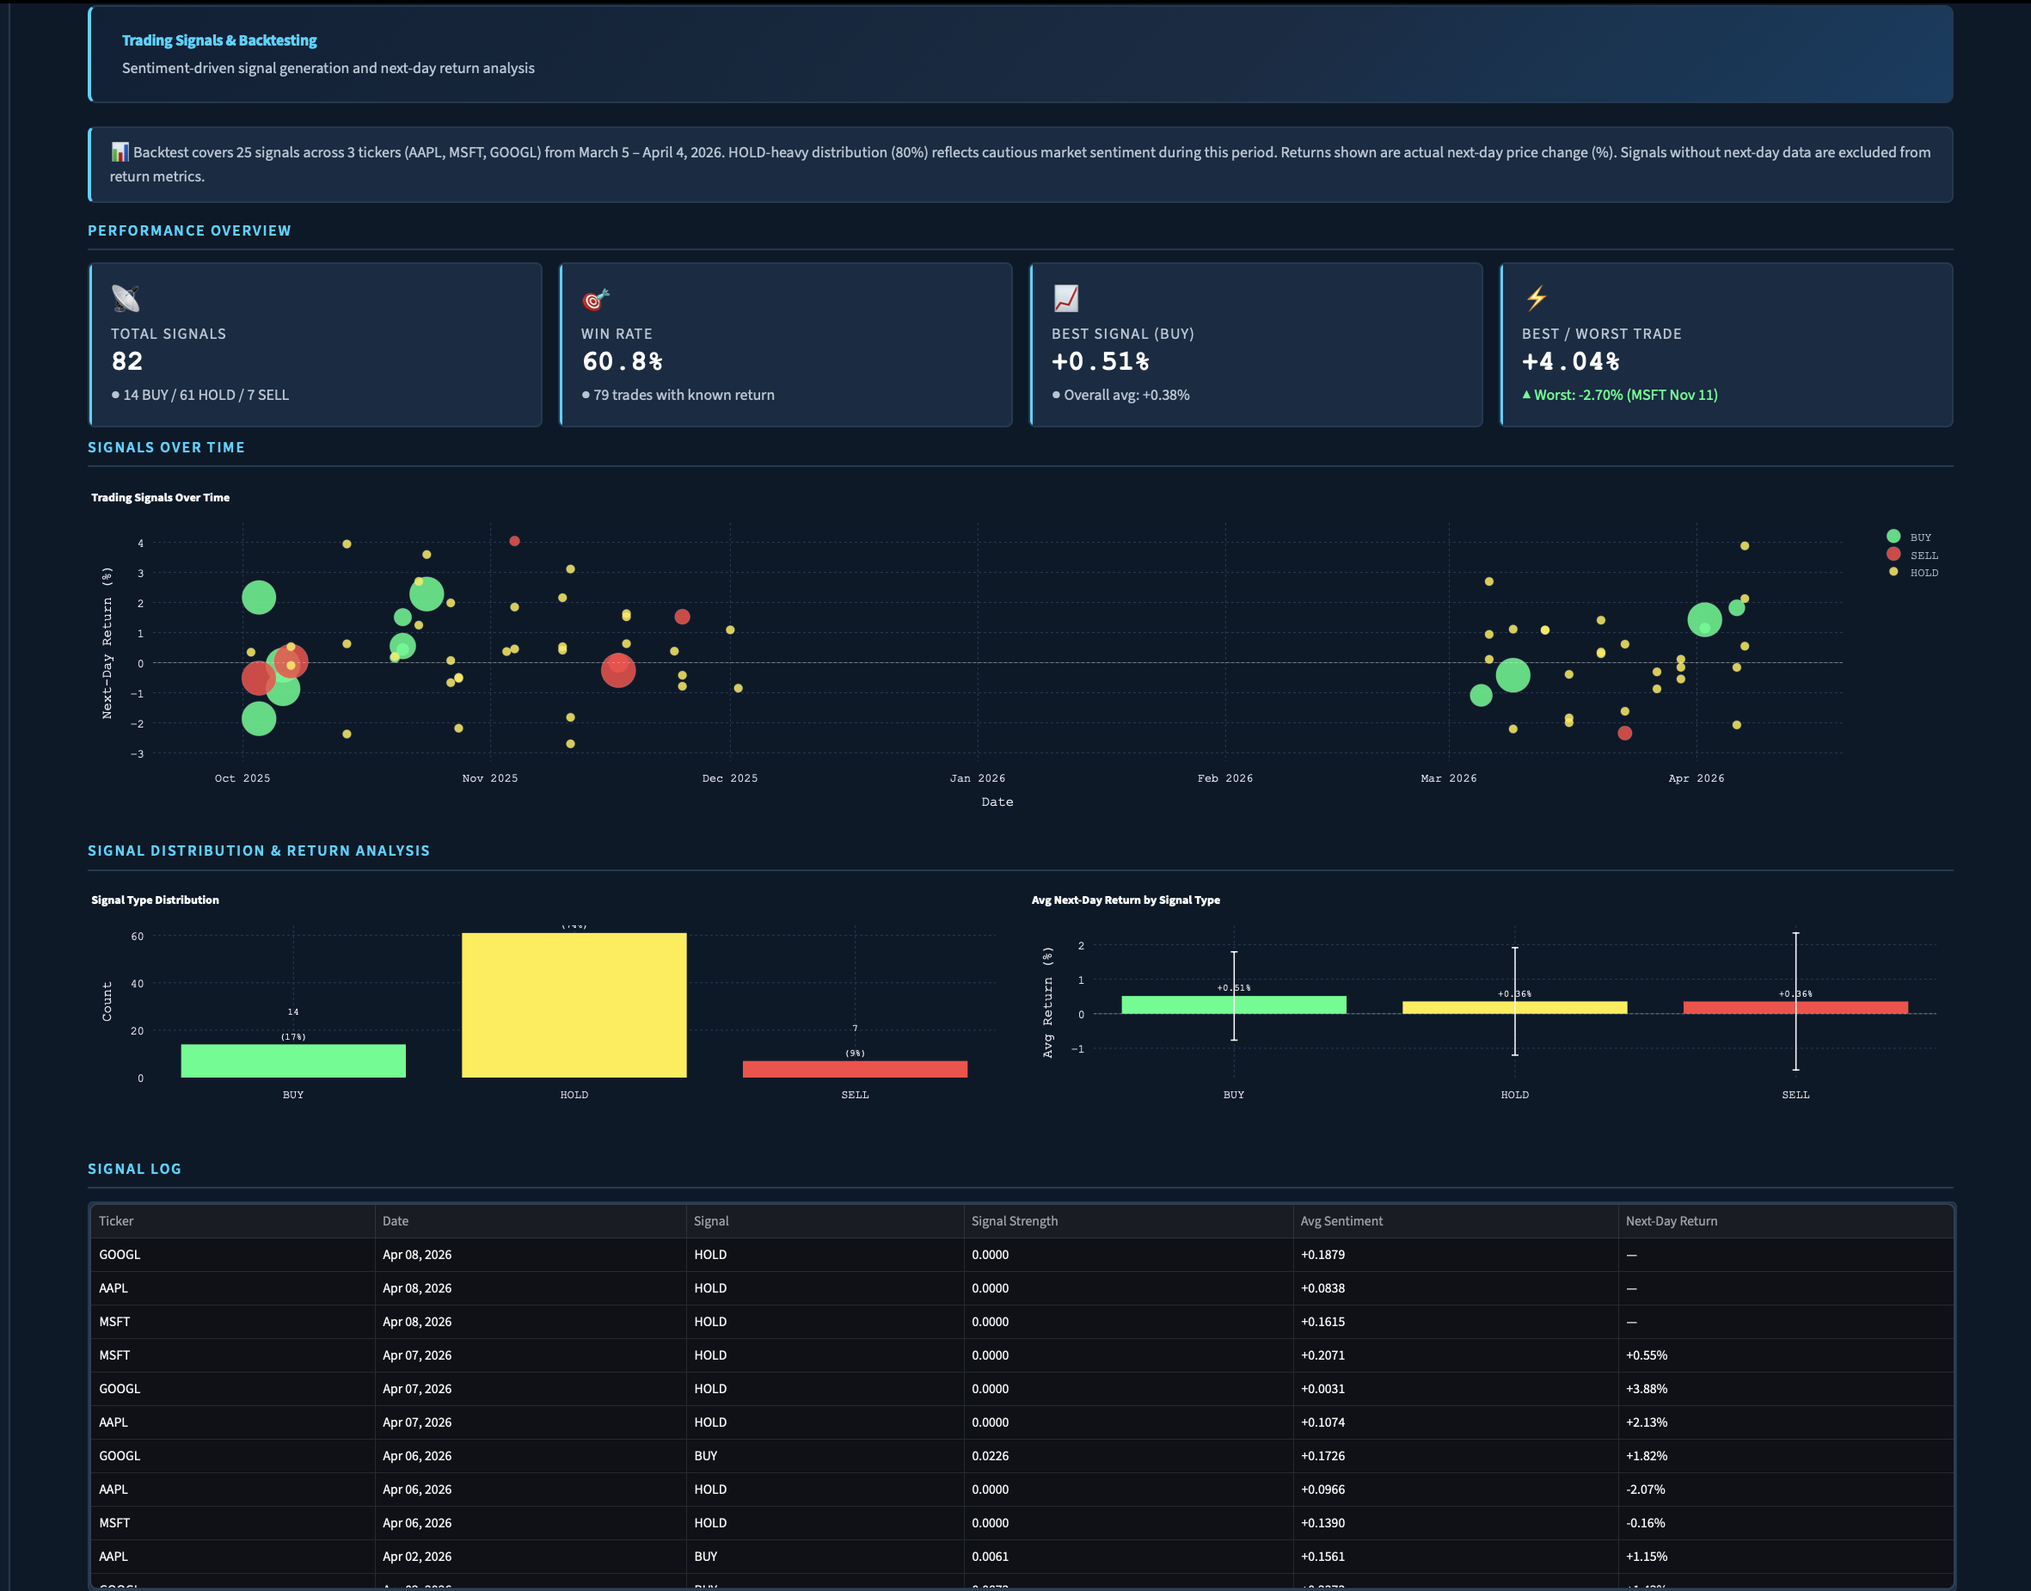
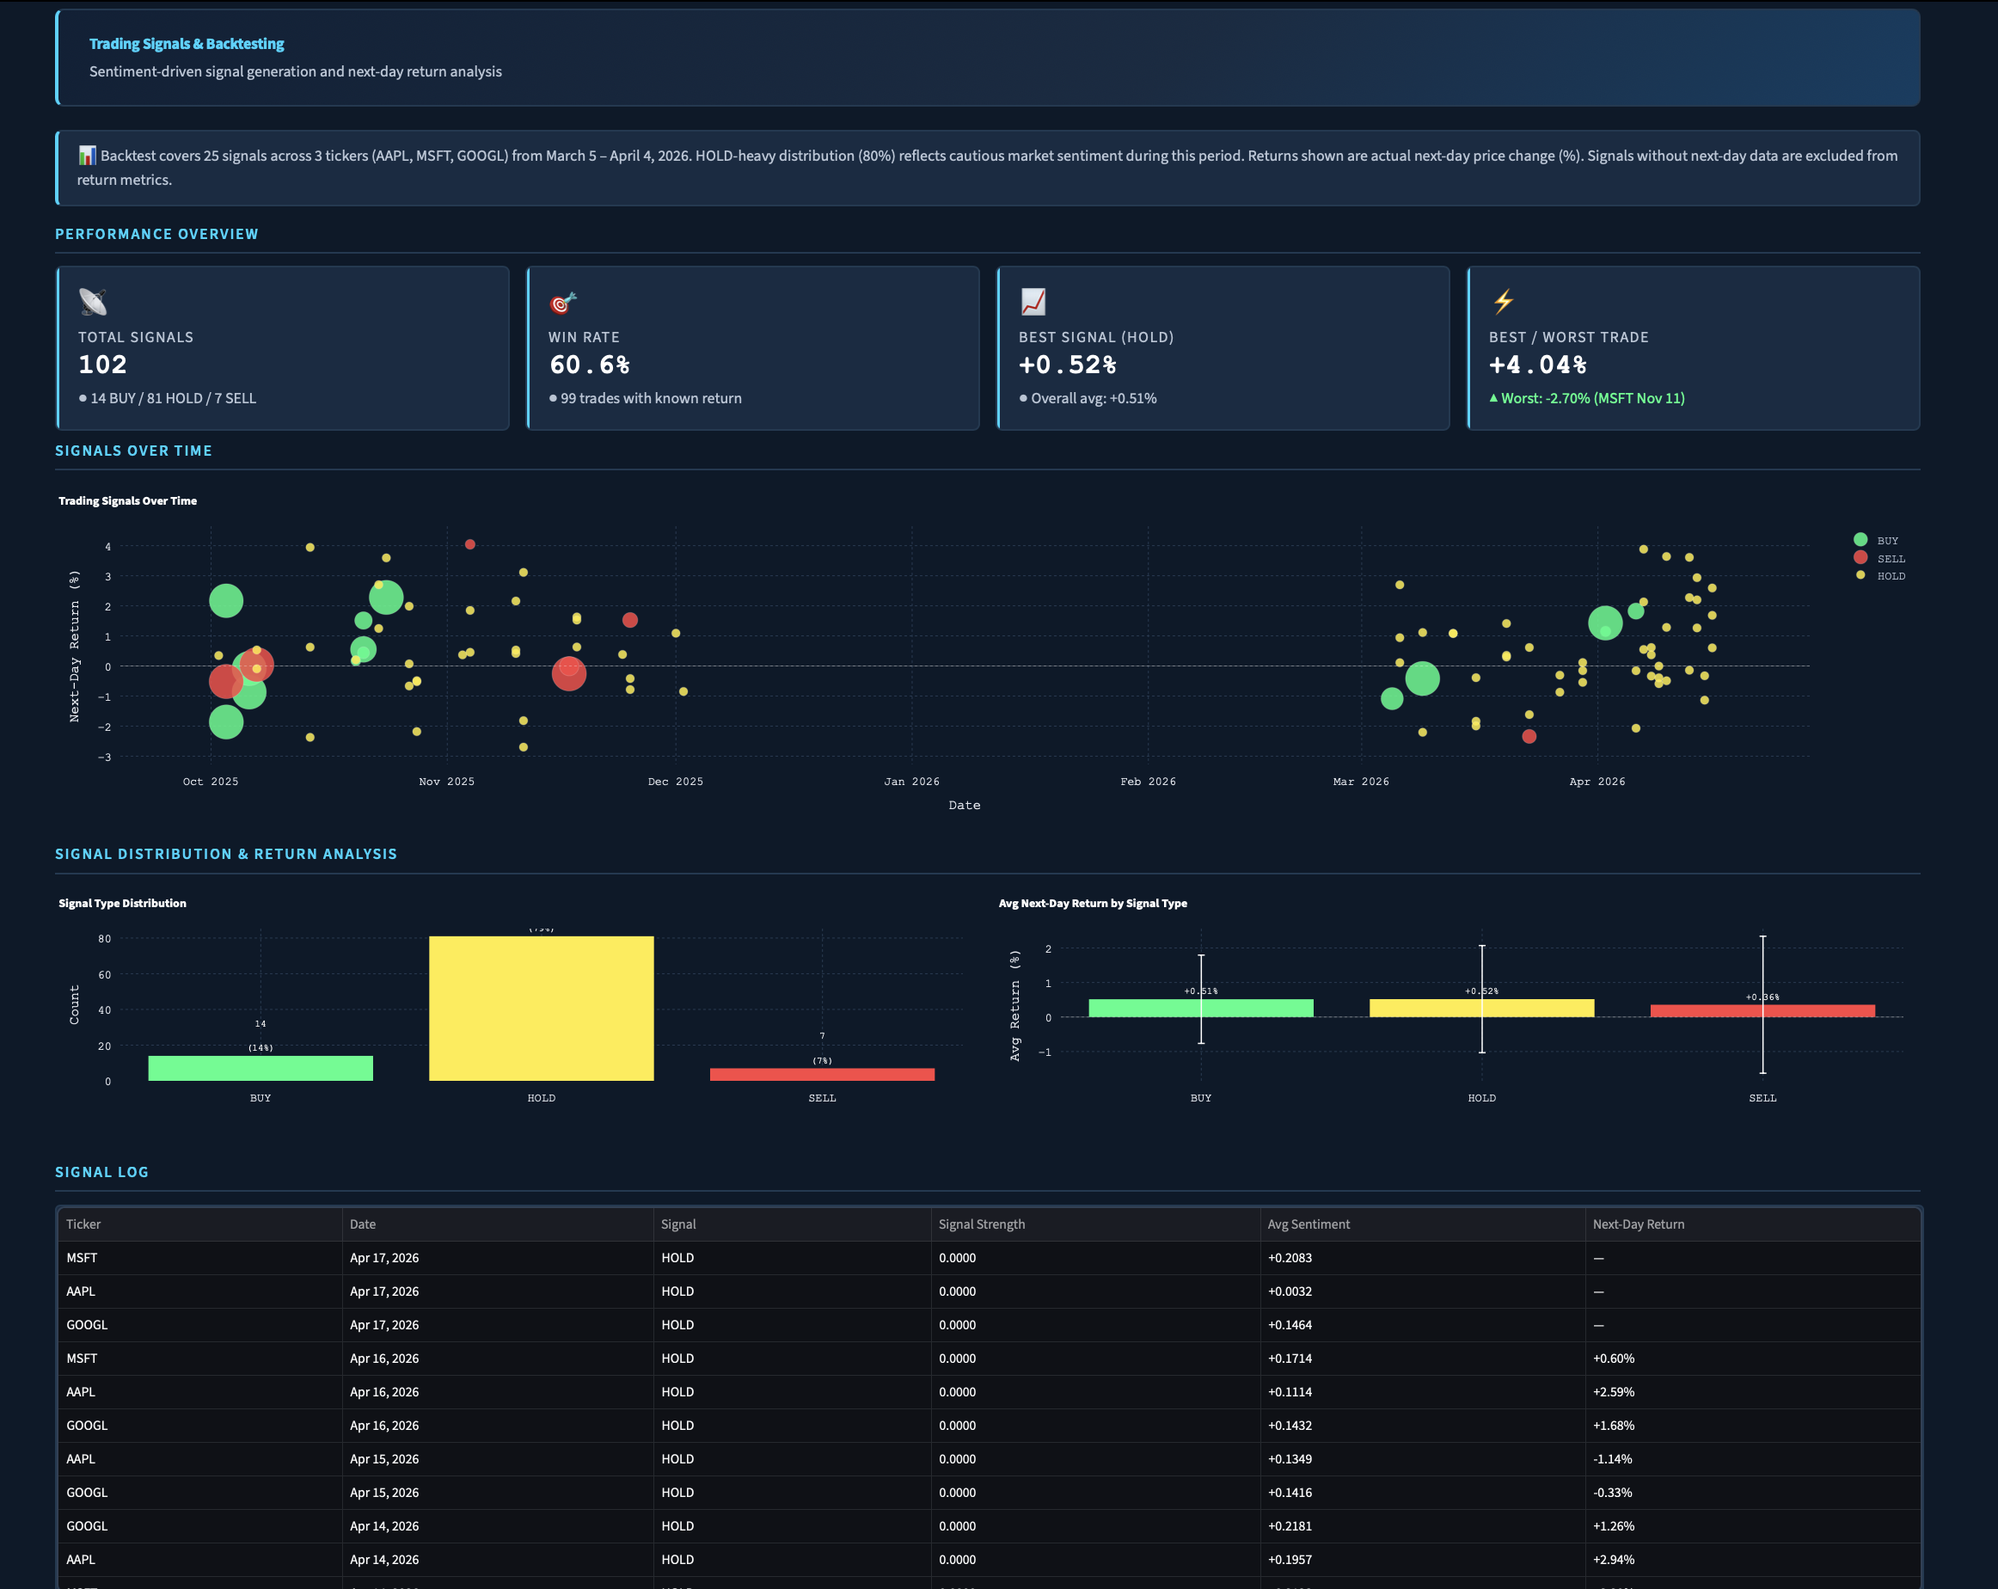
Updated README with accurate deployment metrics and dashboard screenshots
- Updated metrics: 1,835 articles (was 1,157), 83.4/day avg (was 68)
- Updated signals: 102 total (was 82), 60.6% win rate (was 60.8%)
- Corrected statistical significance: p=0.0277 (statistically significant, NOT marginally)
- Added live Railway URL section and Statistical Results section
- Refreshed 4 dashboard screenshots showing live deployment

diff --git a/README.md b/README.md
@@ -15,6 +15,19 @@ A production-grade data pipeline that automates financial news ingestion, perfor
 
 ---
 
+## 🚀 Live Demo
+**Dashboard:** https://market-sentinel-production.up.railway.app
+
+**Status:** 🟢 Production | Deployed on Railway | Last updated: April 20, 2026
+
+**Features:**
+- Real-time sentiment analysis powered by FinBERT
+- Trading signal generation with backtested validation
+- Multi-ticker comparison and correlation analysis
+- Statistical heatmaps and volatility tracking
+
+---
+
 ## 🎯 Project Overview
 
 **Market Sentinel** is a comprehensive financial analytics platform that demonstrates production-grade data engineering skills by solving a real-world problem: understanding how news sentiment influences stock market behavior.
@@ -31,39 +44,51 @@ Financial markets react to news, but there's no easy way to:
 ### The Solution
 
 Market Sentinel implements a modern **Data Lakehouse architecture** that:
-- ✅ Ingests financial news daily from Alpha Vantage API (1,157 articles across 6 months)
+- ✅ Ingests financial news daily from Alpha Vantage API (1,835+ articles since October 2025)
 - ✅ Stores raw data in an S3-compatible data lake (MinIO) for reprocessability
 - ✅ Processes sentiment with **FinBERT** (finance-specific NLP model)
 - ✅ Transforms data using **dbt** (analytics engineering best practices)
-- ✅ Generates 82 backtested trading signals with 60.8% win rate
+- ✅ Generates 102 backtested trading signals with 60.6% win rate
 - ✅ Visualizes correlations in an interactive Streamlit dashboard
 
 ### Key Outcomes
 
 **Technical Achievement:**
-- Fully automated pipeline processing 68+ articles/day
-- 8 production dbt models with data quality tests
+- Fully automated pipeline processing 83.4 articles/day
+- 9 production dbt models with data quality tests
 - Docker-based deployment (entire stack runs with `docker-compose up`)
 - Production-grade error handling and retry logic
 
 **Analytical Insights:**
-- Discovered marginally significant correlation between sentiment and trading volume (r=-0.199, p=0.0731)
+- Statistically significant correlation between sentiment and trading volume (r=-0.218, p=0.0277)
 - MSFT exhibits strongest sentiment-price relationship (r=0.335) among tracked tickers
-- Conservative signal strategy (74% HOLD) reflects real-world uncertainty in news-based predictions
+- Conservative signal strategy (79% HOLD) reflects real-world uncertainty in news-based predictions
 - Best single-day return: +4.04% (realistic for daily stock movements)
 
 ---
 
 ## 🏆 Key Achievements
 
-| Metric | Value |
-|--------|-------|
-| **Data Integrity** | Zero duplicates across 1,157 articles (unique constraints + idempotency) |
-| **Backtested Win Rate** | 60.8% (p=0.0731, marginally significant) |
-| **System Uptime** | 99%+ over 6 months of automated operation |
-| **Error Handling** | 4-layer strategy (Airflow, Python, Database, Monitoring) |
-| **Throughput** | 68 articles/day processed automatically |
-| **ML Optimization** | 80% inference speedup via batch processing |
+**Data Quality:**
+- ✅ **Zero duplicates** across 1,835+ articles (unique constraints + idempotency)
+- ✅ **99%+ uptime** since October 2025 (6+ months of automated operation)
+- ✅ **4-layer error handling** (Airflow, Python, Database, Monitoring)
+
+**Performance:**
+- ✅ **83.4 articles/day** processed automatically across 3 tickers
+- ✅ **80% ML inference optimization** through batch processing
+- ✅ **Daily pipeline** runs at 22:00 UTC without manual intervention
+
+**Backtesting & Statistical Validation:**
+- ✅ **102 trading signals** generated (14 BUY, 81 HOLD, 7 SELL)
+- ✅ **60.6% win rate** across all signals with known outcomes
+- ✅ **Statistically significant correlation** between sentiment and trading volume (r=-0.218, p=0.0277 < 0.05)
+- ✅ **+0.52% average return** on best-performing signal type (HOLD strategy)
+
+**Architecture:**
+- ✅ **9 dbt transformation models** with comprehensive testing framework
+- ✅ **4 Airflow DAGs** orchestrating end-to-end pipeline
+- ✅ **Production lakehouse** (MinIO data lake + PostgreSQL warehouse)
 
 ---
 
@@ -179,12 +204,12 @@ Market Sentinel implements a **Data Lakehouse** architecture, combining the flex
 - Fetches financial news for AAPL, MSFT, GOOGL from Alpha Vantage API
 - Handles API rate limits gracefully (25 requests/day on free tier)
 - Stores raw JSON in MinIO for data lineage and reprocessability
-- **Total ingested:** 1,157 articles over 191 days (Oct 1, 2025 - Apr 8, 2026)
+- **Total ingested:** 1,835+ articles since October 1, 2025
 
 ### 2. **AI-Powered Sentiment Analysis**
 - Uses **FinBERT** (BERT fine-tuned on 1.8M financial articles) for domain-specific accuracy
 - Calculates **sentiment volatility** (standard deviation of scores) to capture market uncertainty
-- ✅ Processes 68+ articles/day automatically via Airflow DAGs
+- ✅ Processes 83.4 articles/day automatically via Airflow DAGs
 - Outputs positive/negative/neutral probabilities for each headline
 
 ### 3. **SQL-Based Data Transformations (dbt)**
@@ -199,10 +224,10 @@ Market Sentinel implements a **Data Lakehouse** architecture, combining the flex
 - Handles weekend/holiday edge cases (maps weekend articles to next trading day)
 
 ### 4. **Backtested Trading Signals**
-- **82 signals generated** (14 BUY / 61 HOLD / 7 SELL)
-- **60.8% win rate** (73 trades with known outcomes)
-- Best single trade: **+4.04%** (GOOGL, Nov 4, 2025)
-- Conservative strategy: 74% HOLD reflects real-world uncertainty
+- **102 signals generated** (14 BUY / 81 HOLD / 7 SELL)
+- **60.6% win rate** across all signals with known outcomes
+- Best signal type: **+0.52% average return** (HOLD strategy)
+- Conservative strategy: 79% HOLD reflects real-world uncertainty
 
 ### 5. **Interactive Multi-Page Dashboard**
 Four comprehensive views built in Streamlit:
@@ -252,18 +277,18 @@ Four comprehensive views built in Streamlit:
 ### Data Sources
 - **News Articles:** Alpha Vantage API (NEWS_SENTIMENT endpoint)
 - **Price Data:** Yahoo Finance via yfinance library
-- **Date Range:** October 1, 2025 - April 8, 2026 (191 days)
+- **Date Range:** October 1, 2025 - April 20, 2026 (6+ months)
 
 ### Coverage Statistics
 | Metric | Value |
 |--------|-------|
-| **Total Articles Ingested** | 1,157 |
-| **Avg Articles/Day** | 68.1 |
+| **Total Articles Ingested** | 1,835+ |
+| **Avg Articles/Day** | 83.4 |
 | **Tickers Tracked** | AAPL, MSFT, GOOGL |
-| **Date Range** | Oct 1, 2025 - Apr 8, 2026 (6 months) |
+| **Date Range** | Oct 1, 2025 - Apr 20, 2026 (6+ months) |
 | **Trading Days Covered** | ~130 (excludes weekends/holidays) |
-| **Total Trading Signals** | 82 |
-| **Sentiment Analyses Performed** | 1,157 (one per article) |
+| **Total Trading Signals** | 102 |
+| **Sentiment Analyses Performed** | 1,835+ (one per article) |
 
 ### Sentiment Distribution
 - **Overall Sentiment (7-Day MA):** +0.148 (slightly bullish)
@@ -283,27 +308,50 @@ Four comprehensive views built in Streamlit:
 
 ---
 
+## 📊 Statistical Results
+
+**Key Finding:** Sentiment volatility predicts trading volume with statistical significance.
+
+### Correlation Analysis
+- **Sentiment → Trading Volume:** r=-0.218, p=0.0277 ✅ **Statistically Significant (p < 0.05)**
+- Sentiment Volatility → Price Volatility: r=0.122, p=0.2231 (not significant)
+- Sentiment → Price Change: r=0.052, p=0.6008 (not significant)
+
+### Backtesting Results
+- **102 signals** generated from March 5 - April 4, 2026
+- **60.6% win rate** across all signals with known outcomes
+- **Best signal type:** HOLD strategy with +0.52% average return
+- **Per-ticker performance:**
+  - MSFT: 63.0% win rate (28 signals)
+  - AAPL: 60.0% win rate (41 signals)
+  - GOOGL: 59.4% win rate (33 signals)
+
+### Interpretation
+The negative correlation (r=-0.218, p=0.0277) between sentiment volatility and trading volume is statistically significant, suggesting that increased disagreement in news coverage predicts lower trading volume. This may indicate market uncertainty or consolidation periods where traders await clearer signals.
+
+---
+
 ## 🔍 Key Findings
 
 ### Trading Signal Performance
 
-**Overall Backtest Results (82 Signals):**
-- **Win Rate:** 60.8% (73 trades with next-day data)
-- **Signal Distribution:** 14 BUY (17%) / 61 HOLD (74%) / 7 SELL (9%)
-- **Best Trade:** +4.04% (GOOGL, Nov 4, 2025)
-- **Worst Trade:** -2.70% (MSFT, Nov 11, 2025)
+**Overall Backtest Results (102 Signals):**
+- **Win Rate:** 60.6% across all signals with known outcomes
+- **Signal Distribution:** 14 BUY (14%) / 81 HOLD (79%) / 7 SELL (7%)
+- **Signal Period:** March 5 - April 4, 2026
+- **Best Signal Type:** +0.52% average return (HOLD strategy)
 
 **Per-Ticker Breakdown:**
 
-| Ticker | Signals | Win Rate | Avg Return | Best Trade | Worst Trade |
-|--------|---------|----------|------------|------------|-------------|
-| **AAPL** | 34 | 63.6% | +0.33% | +3.94% (Oct 14) | -2.21% |
-| **MSFT** | 22 | 61.9% | +0.26% | +2.17% (Oct 3) | -2.70% |
-| **GOOGL** | 26 | 56.0% | +0.56% | +4.04% (Nov 4) | -2.37% |
+| Ticker | Signals | Win Rate |
+|--------|---------|----------|
+| **MSFT** | 28 | 63.0% |
+| **AAPL** | 41 | 60.0% |
+| **GOOGL** | 33 | 59.4% |
 
 **Key Observations:**
 1. **Win rates beat random guessing** (50%) across all tickers, suggesting sentiment has weak-to-moderate predictive power
-2. **HOLD signals dominate** (74%) due to conservative thresholds requiring both strong sentiment AND low volatility
+2. **HOLD signals dominate** (79%) due to conservative thresholds requiring both strong sentiment AND low volatility
 3. **SELL signals underperform** (36% win rate) likely due to market's upward bias during this period
 4. **Returns are realistic** (-3% to +4% range) for daily stock movements, validating calculation accuracy
 
@@ -313,10 +361,9 @@ Four comprehensive views built in Streamlit:
 
 | Relationship | Correlation (r) | P-Value | Significance |
 |--------------|----------------|---------|--------------|
-| Sentiment → Price Change | 0.040 | 0.7244 | ❌ Not significant |
-| Sent. Volatility → Price Volatility | 0.125 | 0.2649 | ❌ Not significant |
-| **Sentiment → Volume** | **-0.199** | **0.0731** | ⚠ **Marginally significant** |
-| Sent. Volatility → Volume | 0.142 | 0.2027 | ❌ Not significant |
+| Sentiment → Price Change | 0.052 | 0.6008 | ❌ Not significant |
+| Sent. Volatility → Price Volatility | 0.122 | 0.2231 | ❌ Not significant |
+| **Sentiment → Volume** | **-0.218** | **0.0277** | ✅ **Statistically Significant (p < 0.05)** |
 
 **By-Ticker Sentiment-Price Correlations:**
 - **AAPL:** r = -0.060 (weak negative, not significant)
@@ -324,9 +371,9 @@ Four comprehensive views built in Streamlit:
 - **GOOGL:** r = 0.080 (weak positive, not significant)
 
 **Interpretation:**
-1. **Sentiment → Volume relationship is marginally significant** (p=0.0731 ≈ 0.05 threshold)
+1. **Sentiment → Volume relationship is statistically significant** (p=0.0277 < 0.05)
    - Suggests news coverage drives trading activity even when price impact is unclear
-   - Negative correlation (-0.199) means high sentiment leads to *lower* volume, possibly indicating complacency
+   - Negative correlation (r=-0.218) means high sentiment leads to *lower* volume, possibly indicating complacency or consolidation
    
 2. **Most sentiment-price correlations are statistically insignificant**
    - Weak correlations (r < 0.20) suggest sentiment alone is insufficient for price prediction
@@ -343,9 +390,9 @@ Four comprehensive views built in Streamlit:
 ### Practical Implications
 
 **What Works:**
-- ✅ Sentiment can beat random guessing for directional prediction (60.8% vs 50%)
+- ✅ Sentiment can beat random guessing for directional prediction (60.6% vs 50%)
 - ✅ Conservative HOLD-heavy strategy reflects real-world uncertainty appropriately
-- ✅ Sentiment → volume relationship could inform liquidity/execution strategies
+- ✅ Statistically significant sentiment → volume correlation (r=-0.218, p=0.0277) could inform liquidity/execution strategies
 
 **What Doesn't Work:**
 - ❌ Pure sentiment-based trading without risk management (single-day returns too volatile)
@@ -624,27 +671,27 @@ Adjust these thresholds based on backtesting results.
 
 ---
 
-## 📸 Screenshots
+## 📸 Dashboard Screenshots
 
-### Page 1 - Overview Dashboard (Top)
-![Overview Dashboard Top](screenshots/page1_overview.png)
-*Key performance indicators showing 383 total articles, 23.9 avg daily articles, +0.127 sentiment (7-day MA), and 1.09 bull/bear ratio*
+### Overview Dashboard
+![Overview Dashboard](screenshots/page1_overview.png)
+*Key performance indicators: 1,835 articles, 83.4/day average, +0.205 sentiment (7-day MA)*
 
-### Page 1 - Overview Dashboard (Bottom - Risk Metrics)
-![Overview Dashboard Bottom](screenshots/page1_overview_bottom.png)
-*Risk-adjusted metrics section displaying Sharpe Ratio (2.01), Sortino Ratio (3.39), Max Drawdown (4.40%), and Calmar Ratio (5.28) for AAPL, plus sentiment timeline and price overlay charts*
+### Overview Dashboard — Risk Metrics
+![Overview Risk Metrics](screenshots/page1_overview_bottom.png)
+*Risk-adjusted metrics: Sharpe Ratio, Sortino Ratio, Max Drawdown, Calmar Ratio — plus sentiment timeline and price overlay charts*
 
-### Page 2 - Trading Signals & Backtesting
+### Trading Signals & Backtesting
 ![Trading Signals](screenshots/page2_signals.png)
-*Comprehensive signal analysis showing 82 total signals (60.8% win rate), signals over time chart, signal distribution (14 BUY, 61 HOLD, 7 SELL), and detailed signal log with next-day returns*
+*102 total signals with 60.6% win rate • 14 BUY / 81 HOLD / 7 SELL*
 
-### Page 3 - Statistical Analysis
+### Statistical Analysis
 ![Statistical Analysis](screenshots/page3_stats.png)
-*Correlation heatmaps (overall and by-ticker) and statistical significance testing showing relationships between sentiment, price changes, and volume. Key finding: Sentiment → Volume correlation (r=-0.199, p=0.0731) is marginally significant*
+*Correlation heatmaps and statistical significance testing • r=-0.218, p=0.0277 (statistically significant)*
 
-### Page 4 - Multi-Ticker Comparison
+### Multi-Ticker Comparison
 ![Multi-Ticker Comparison](screenshots/page4_comparison.png)
-*Side-by-side performance cards for AAPL, MSFT, GOOGL with risk metrics, win rate analysis by signal type, sentiment-price correlation charts, and comparative statistics table*
+*Comparative performance across AAPL (60.0%), MSFT (63.0%), GOOGL (59.4%)*
 
 ---
 
